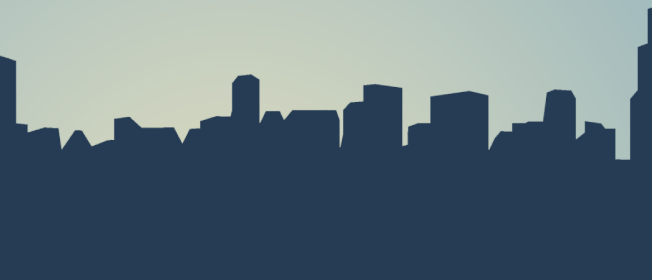
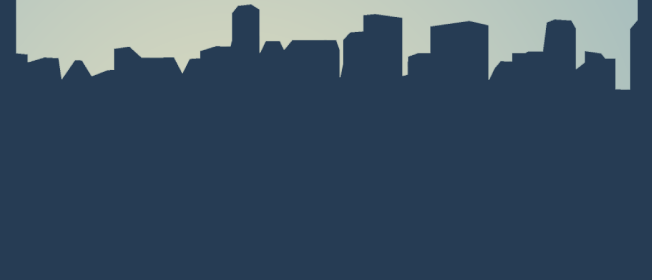
background-attachment not supported in safari, im cheesed

Changed region(s): [[0.0, 0.0, 1.0, 0.5714]]

diff --git a/client/src/layout/HeroContainer/HeroContainer.css b/client/src/layout/HeroContainer/HeroContainer.css
@@ -52,11 +52,7 @@
 @media only screen and (max-width: 1024px) { 
     .heroContainer { 
         height: 400px;
-    }
-    .heroAnimation{
-        animation: moveHeroMobile 50s infinite linear;
-        width: 1340px;
-    }
+    }  
     .heroLayer {  
         height: 400px;
     } 
